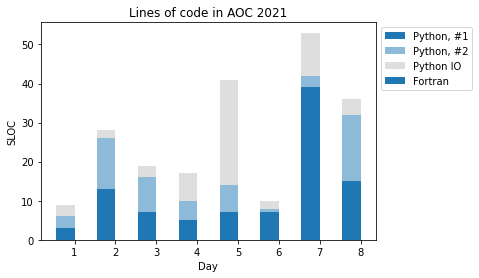
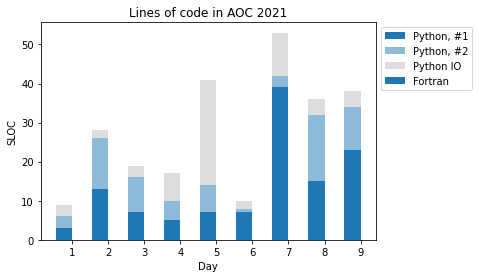
Day 9

diff --git a/09/day09.py b/09/day09.py
@@ -1,0 +1,66 @@
+#!/usr/bin/env python3
+# -*- coding: utf-8 -*-
+"""
+Created on Fri Dec  9 15:08:21 2022
+
+@author: podolnik
+"""
+
+import numpy as np
+
+with open('input.txt', 'r') as f:
+    data = [l.strip().split(' ') for l in f.readlines()]
+    data = [(r[0], int(r[1])) for r in data]
+    
+# part 1
+directions = {'L': (0, -1), 'R': (0, 1), 'D': (-1, 0), 'U': (1, 0)}
+
+def follow(head, tail):
+    dr = head[0] - tail[0]
+    dc = head[1] - tail[1]
+    
+    r, c = tail
+    
+    if np.sqrt(dr*dr + dc*dc) < 2:
+        return r, c
+    
+    if abs(dr) > 0:
+        r += dr // abs(dr)
+    if abs(dc) > 0:
+        c += dc // abs(dc)
+    
+    return r, c
+
+
+head = (0, 0)
+tail = (0, 0)
+
+tail_history = set()
+tail_history.add(tail)
+
+for move in data:
+    for _ in range(move[1]):
+        d = directions[move[0]]
+        head = (head[0] + d[0], head[1] + d[1])
+        tail = follow(head, tail)
+        tail_history.add(tail)
+        
+print(len(tail_history))
+
+# part 2
+rope = [(0, 0) for _ in range(10)]
+
+tail_history = set()
+tail_history.add(rope[-1])
+
+for move in data:
+    for _ in range(move[1]):
+        d = directions[move[0]]
+        rope[0] = (rope[0][0] + d[0], rope[0][1] + d[1])        
+        for i in range(1, len(rope)):
+            rope[i] = follow(rope[i - 1], rope[i])
+        tail_history.add(rope[-1])
+            
+print(len(tail_history))
+
+            
